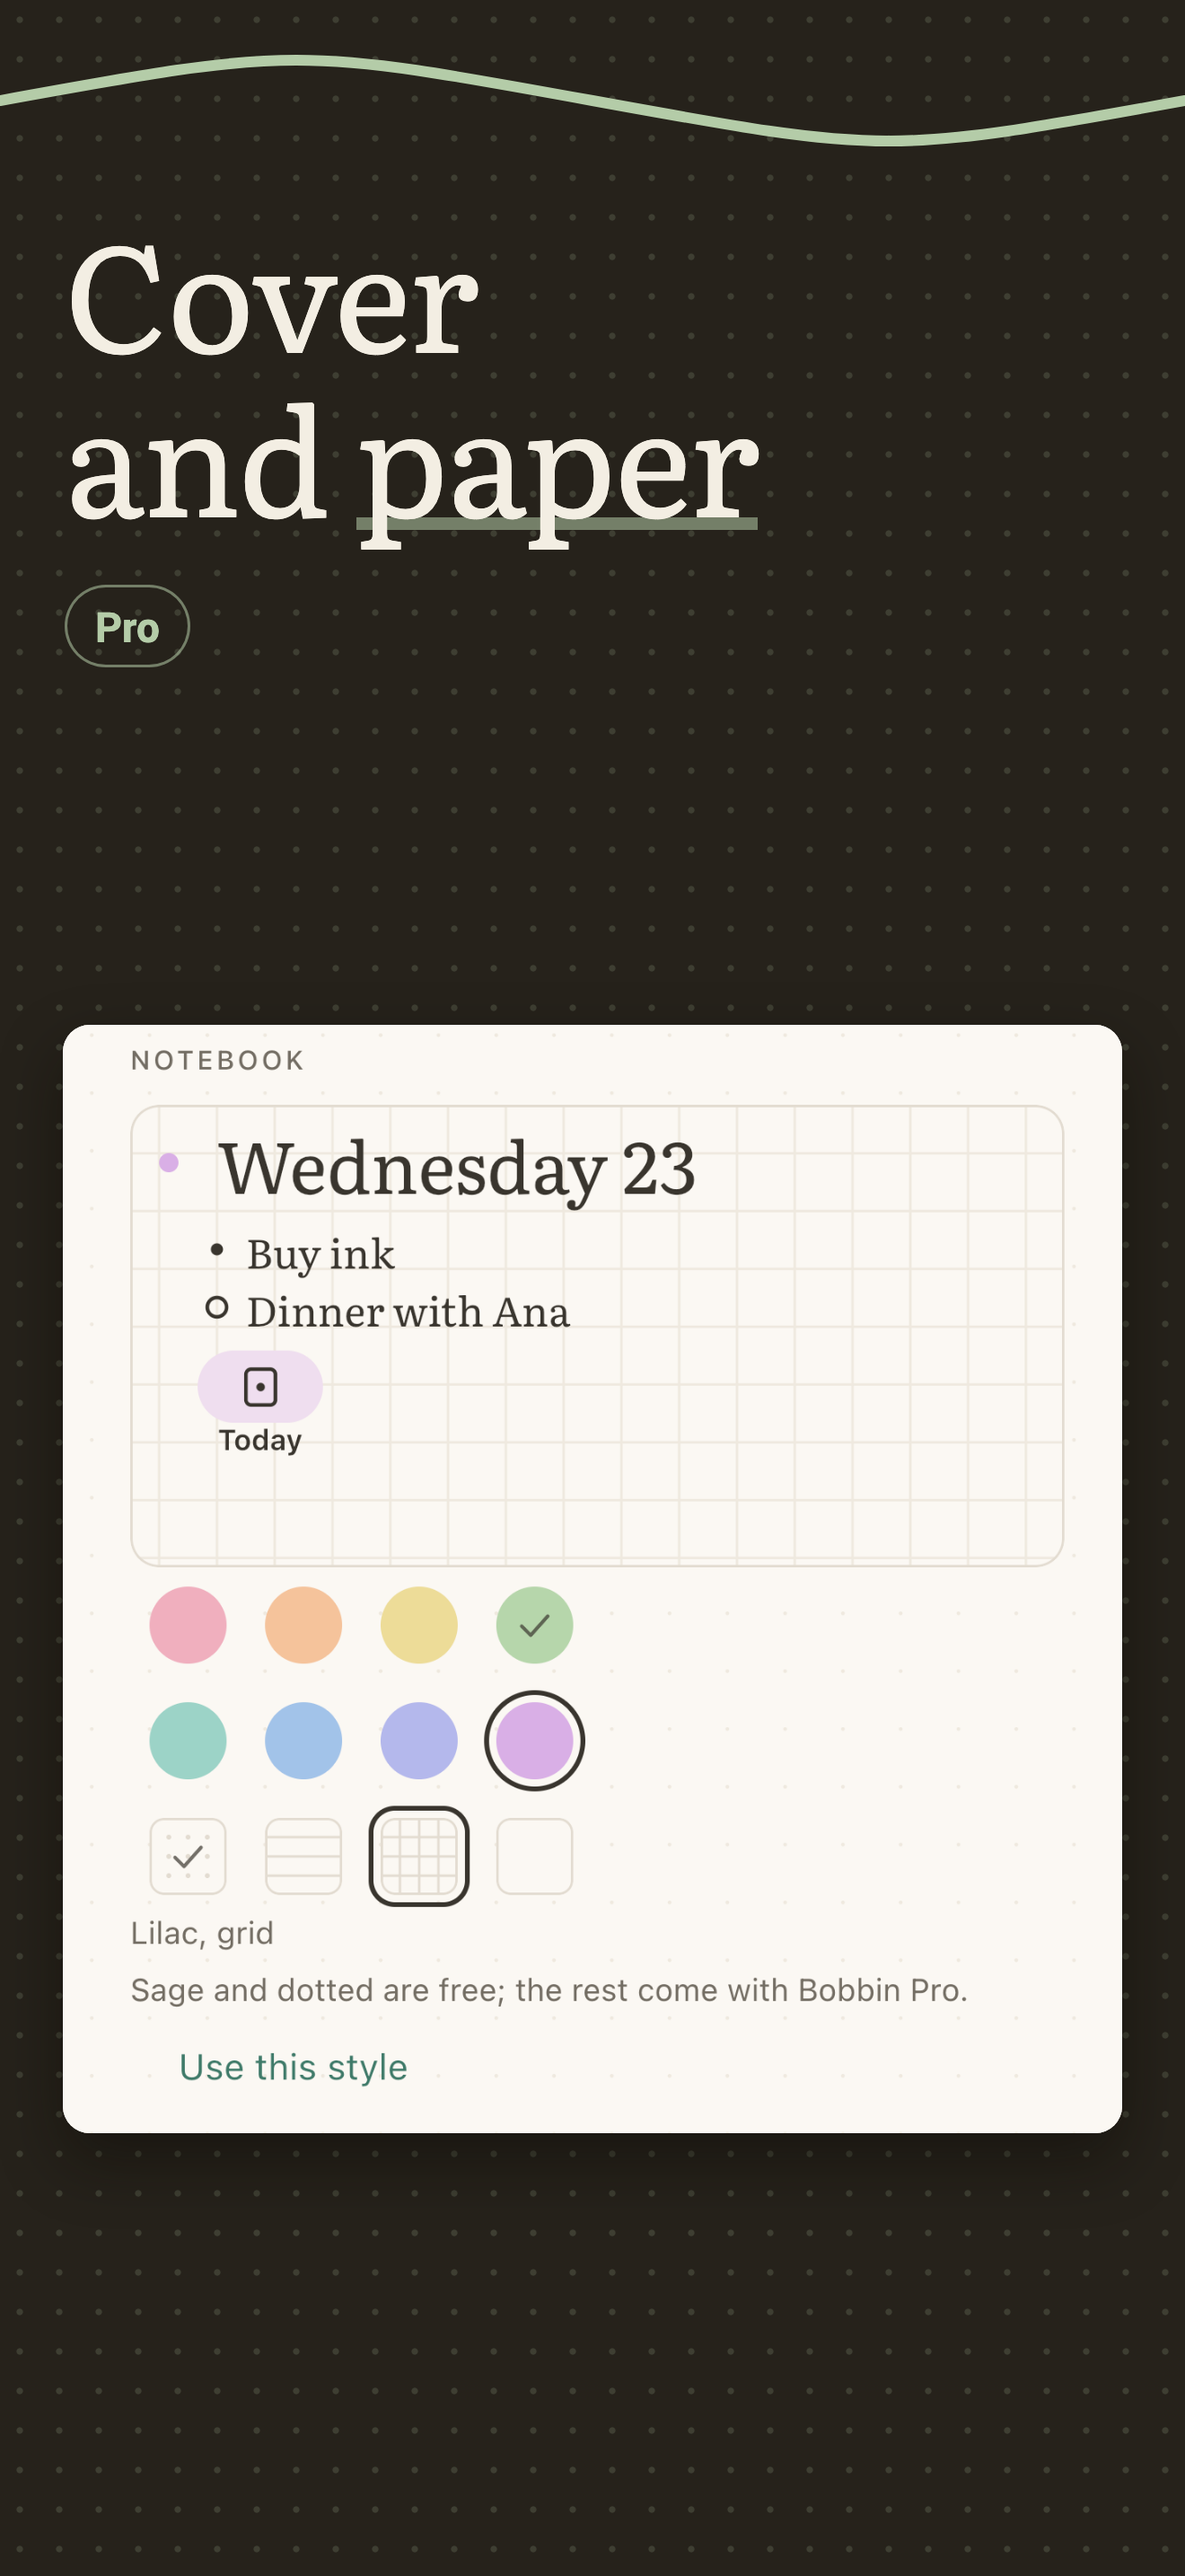
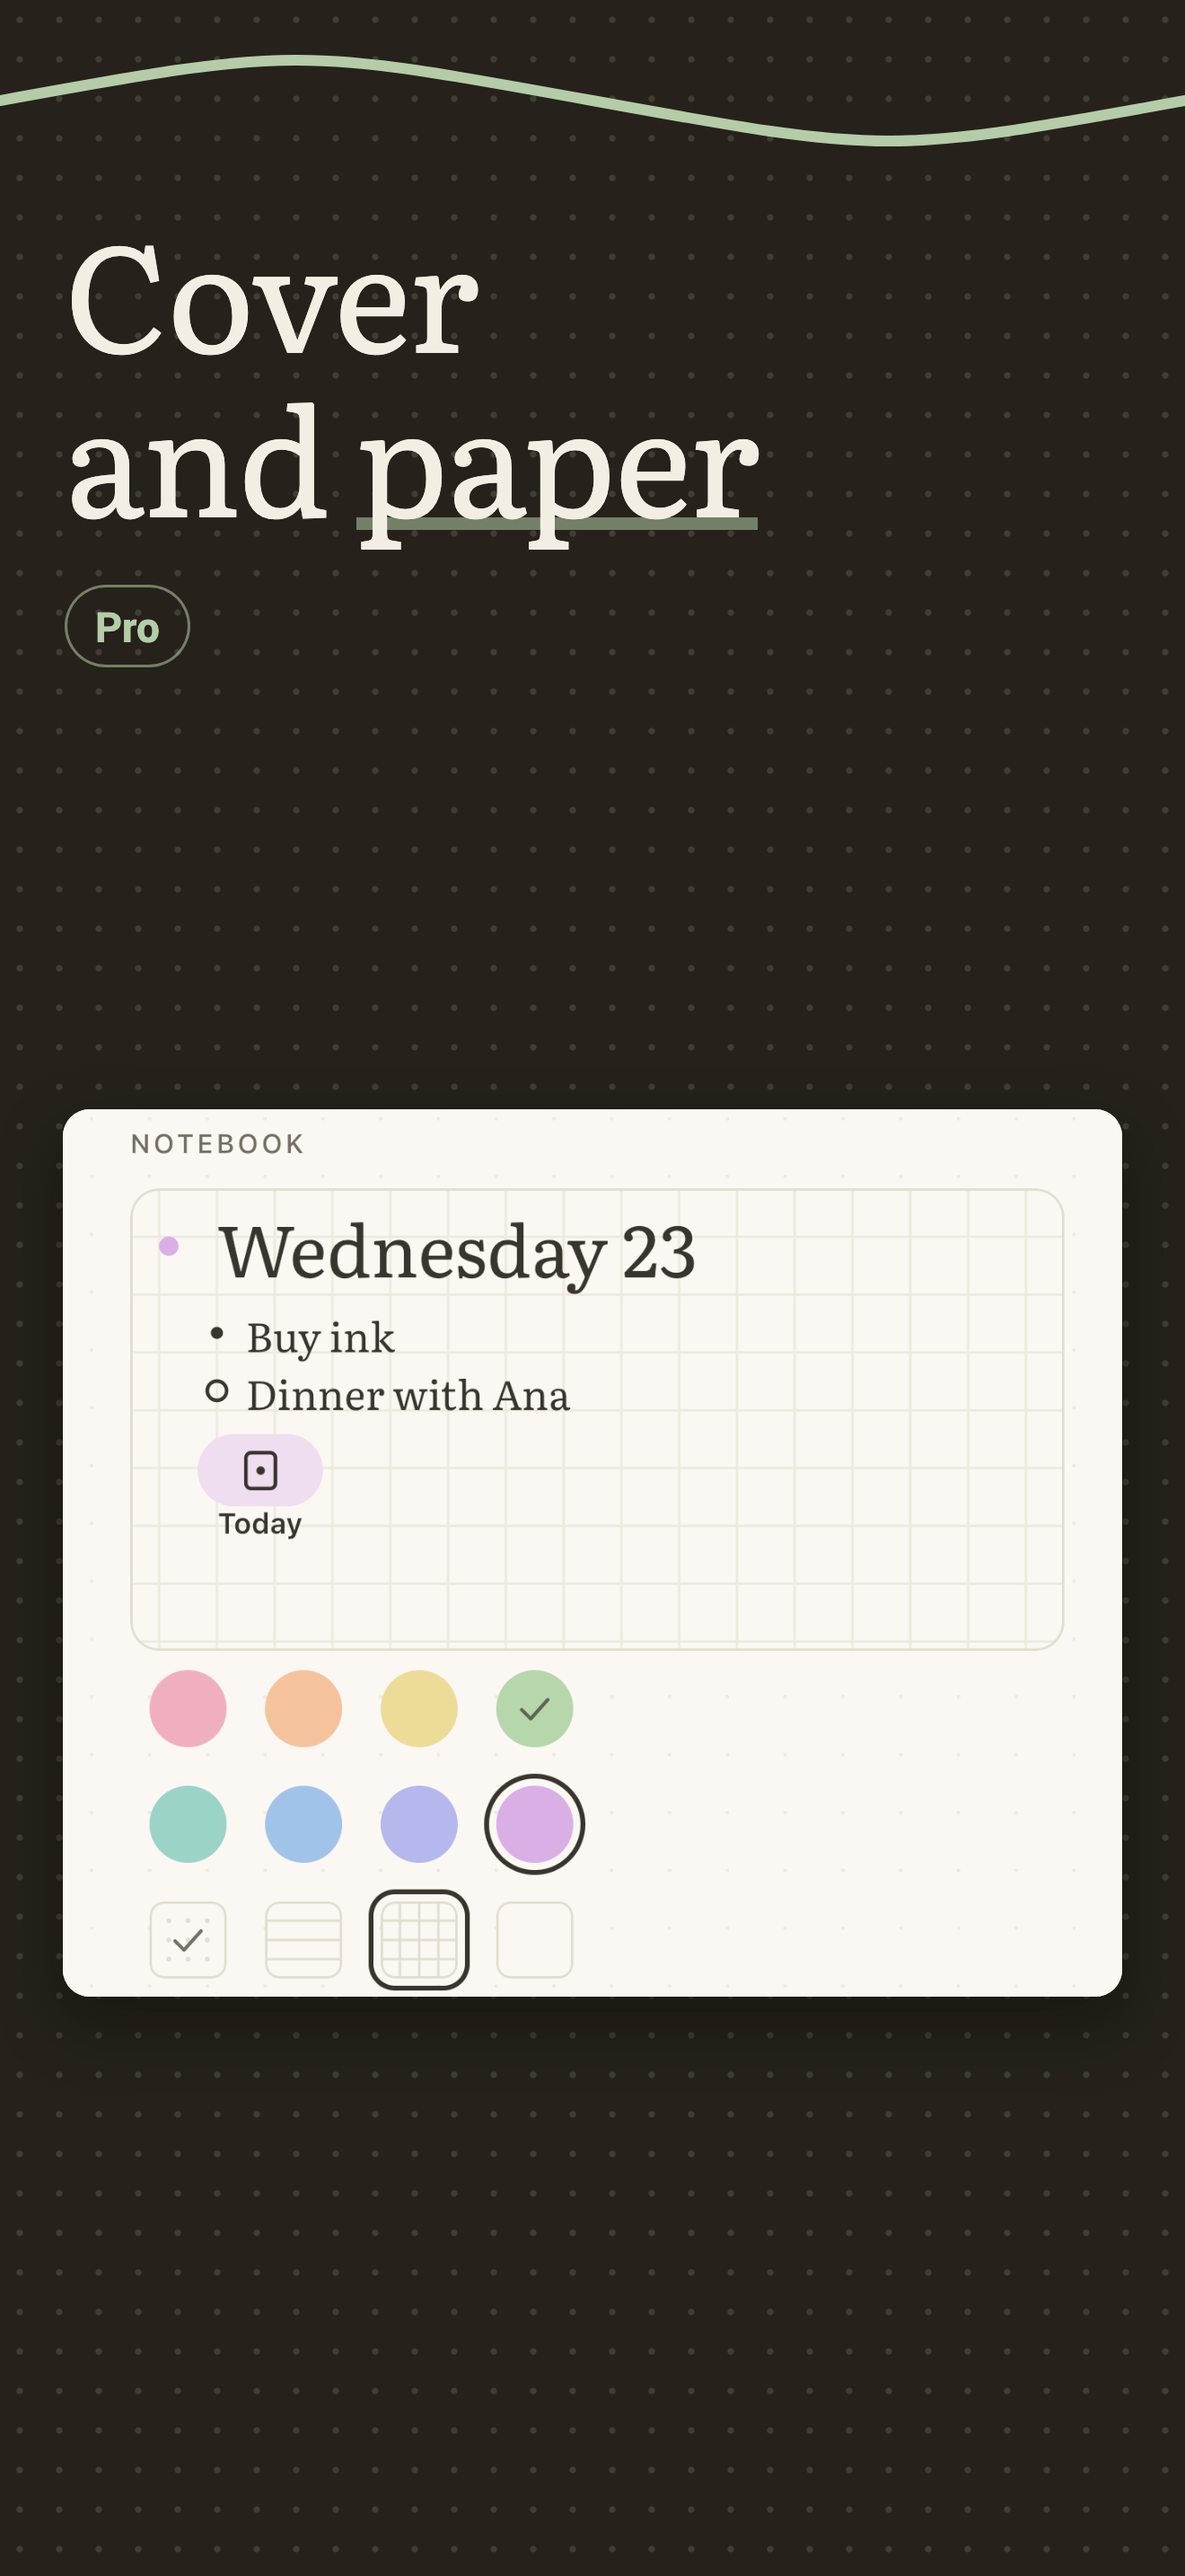
tienda: el papel sin la línea de qué es gratis en las capturas, y el iPad sin esa escena
Apple rechazó MoodTraker 1.9.0 el 18-11-2026 por la 2.3.7: lee "free" en una
captura como precio, aunque sea texto de la propia app. El cuadro del papel
enseñaba "Sage and dotted are free; the rest come with Bobbin Pro." en los
trece idiomas. El recorte acaba ahora en el hueco entre las baldosas y el
nombre del estilo, y empieza 30 px sobre la cabecera, que en alemán, francés,
italiano y ruso salía cortada. La cruda de iPad no se puede recortar en la
plantilla: sale del juego. Van con la próxima versión.

Changed region(s): [[0.0311, 0.3724, 0.9629, 0.8379]]

diff --git a/store/capturas.md b/store/capturas.md
@@ -37,8 +37,11 @@ porque Apple no admite un teclado ni una pantalla de inicio de Android. `todas.s
 
 La app es universal y App Store Connect no envía sin capturas de iPad de 13". Van solo en en-US, que
 la tienda enseña en los idiomas que no tienen las suyas, y crudas: la plantilla recorta para el ancho
-del iPhone. Son cinco, las escenas de iPhone en su orden menos los widgets, que no tienen cruda de
-iPad. Las crudas salen como las de iPhone (sección 5) en `tools/demo/salida/en-US/crudas-ipad/`; al
+del iPhone. Son cuatro, las escenas de iPhone en su orden menos los widgets, que no tienen cruda de
+iPad, y el papel: la cruda de iPad enseña entera la frase "Sage and dotted are free; the rest come with
+Bobbin Pro.", y Apple lee "free" en una captura como precio (2.3.7, rechazo de MoodTraker del
+18-11-2026). En iPhone y Play el recorte del papel acaba encima del nombre del estilo por lo mismo.
+Al cambiar este juego, el de la versión en preparación se borra entero y se suben estas cuatro. Las crudas salen como las de iPhone (sección 5) en `tools/demo/salida/en-US/crudas-ipad/`; al
 pasarlas a `store/screenshots/ipad/en-US/` se tapan con el color del papel las filas 0 a 70, la
 barra de estado, que el simulador pinta con la fecha en su propio idioma. Se suben con
 `APP_IPAD_PRO_3GEN_129`: `appstore.py capturas` solo sabe de iPhone.
@@ -56,7 +59,7 @@ ajustes por idioma donde una traducción alarga la pantalla o Ajustes queda en o
 | `03_revisar` | Revisión del mes anterior, abierta desde la tarjeta de Hoy | Pasado el releer con "Decidir las 4 tareas"; la primera tarea abierta, "Ya la has pasado 2 veces", con las cinco salidas y lo que deja cada una |
 | `04_indice` | Índice | Tres meses, dos listas y un seguimiento, en el orden en que se empezaron |
 | `05_widgets` | Segunda página del lanzador | El widget de hoy y el del mes, con Pro para que el del mes no salga bloqueado |
-| `06_cuaderno` | Ajustes, sección Cuaderno | La vista previa con una portada (lila) y un papel (cuadrícula) Pro mirados sin comprar, y la línea de qué es gratis |
+| `06_cuaderno` | Ajustes, sección Cuaderno | La vista previa con una portada (lila) y un papel (cuadrícula) Pro mirados sin comprar, hasta las baldosas del papel: la línea de qué es gratis queda fuera del recorte (2.3.7) |
 
 `crudas.py` busca cada botón por su texto en el árbol de accesibilidad, no por coordenadas, así que
 sirve igual en todos los idiomas. Lo que no hace solo:
